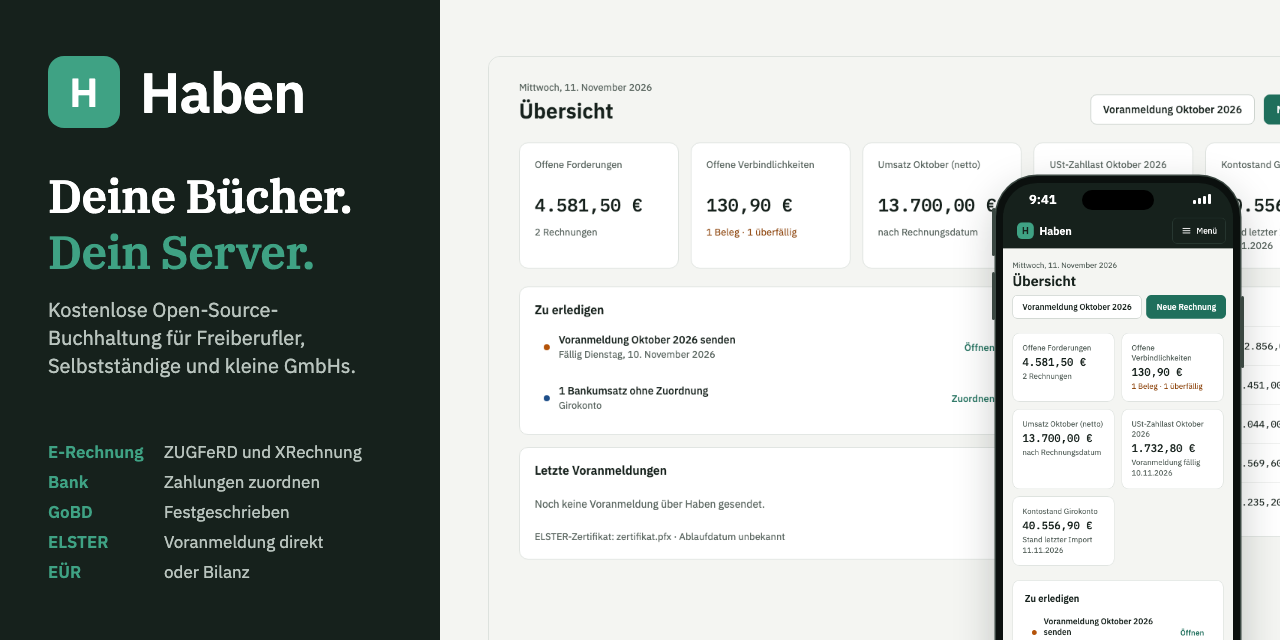
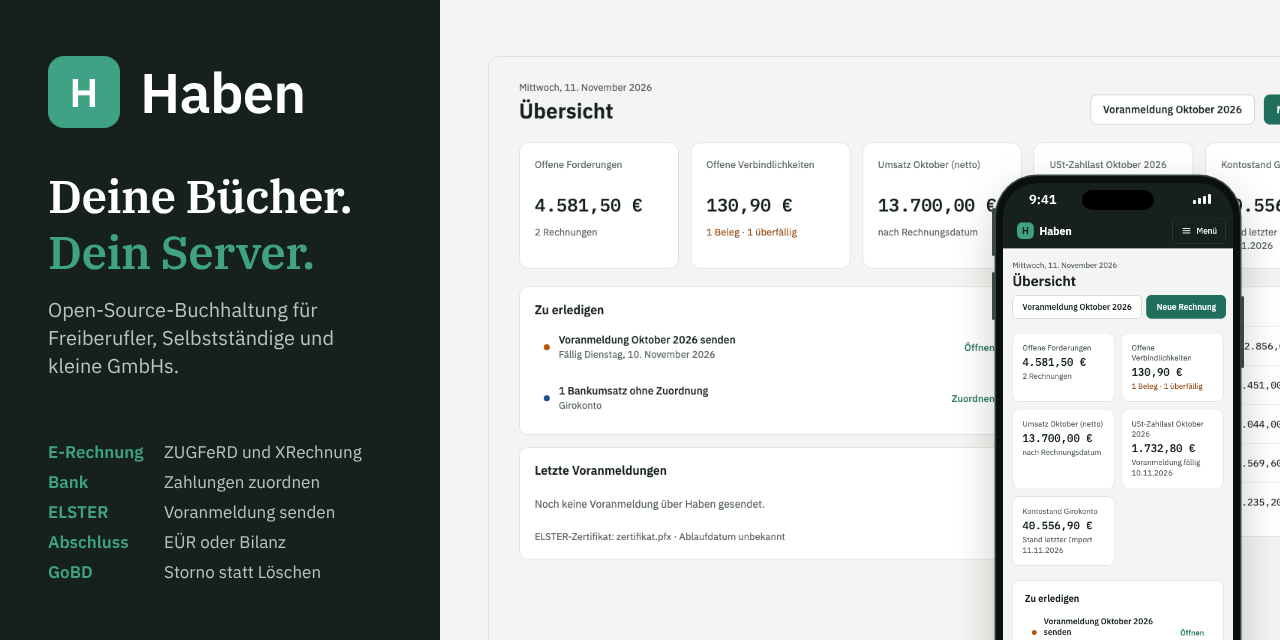
Doku: Vorschaubild ohne Trennung am Bindestrich und mit klarerer Liste
Claude-Session: https://claude.ai/code/session_01Y3rdfabc7GuCt7jF1dYq4T

diff --git a/scripts/social-preview/social-preview.html b/scripts/social-preview/social-preview.html
@@ -28,6 +28,8 @@
   /* Zweite Zeile in der Markenfarbe, wie im Hero der README */
   .claim span { color: var(--brand); }
   .sub { margin-top: 16px; font-size: 20px; line-height: 28px; }
+  /* Nicht am Bindestrich trennen: „Open-Source-“ allein am Zeilenende liest sich schlecht */
+  .am-stueck { white-space: nowrap; }
   /* Was Haben kann, als Liste wie im Hero der README statt Badges */
   dl { margin-top: auto; display: grid; grid-template-columns: 104px 1fr; gap: 6px 12px; font-size: 17px; line-height: 24px; }
   dt { font-weight: 600; color: var(--brand); }
@@ -56,8 +58,8 @@
   <aside class="side">
     <div class="brand"><div class="logo">H</div><div class="name">Haben</div></div>
     <p class="claim">Deine Bücher.<br><span>Dein Server.</span></p>
-    <p class="sub">Kostenlose Open-Source-Buchhaltung für Freiberufler, Selbstständige und kleine GmbHs.</p>
-    <dl><dt>E-Rechnung</dt><dd>ZUGFeRD und XRechnung</dd><dt>Bank</dt><dd>Zahlungen zuordnen</dd><dt>GoBD</dt><dd>Festgeschrieben</dd><dt>ELSTER</dt><dd>Voranmeldung direkt</dd><dt>EÜR</dt><dd>oder Bilanz</dd></dl>
+    <p class="sub"><span class="am-stueck">Open-Source-Buchhaltung</span> für Freiberufler, Selbstständige und kleine GmbHs.</p>
+    <dl><dt>E-Rechnung</dt><dd>ZUGFeRD und XRechnung</dd><dt>Bank</dt><dd>Zahlungen zuordnen</dd><dt>ELSTER</dt><dd>Voranmeldung senden</dd><dt>Abschluss</dt><dd>EÜR oder Bilanz</dd><dt>GoBD</dt><dd>Storno statt Löschen</dd></dl>
   </aside>
   <div class="shot"><img src="../../docs/screenshot-uebersicht.png" alt=""></div>
   <div class="phone"><div class="screen"><img src="../../docs/screenshot-mobil.png" alt=""><div class="island"></div><div class="time">9:41</div><div class="bars"><i style="height:4px"></i><i style="height:6px"></i><i style="height:8px"></i><i style="height:10px"></i></div></div></div>
